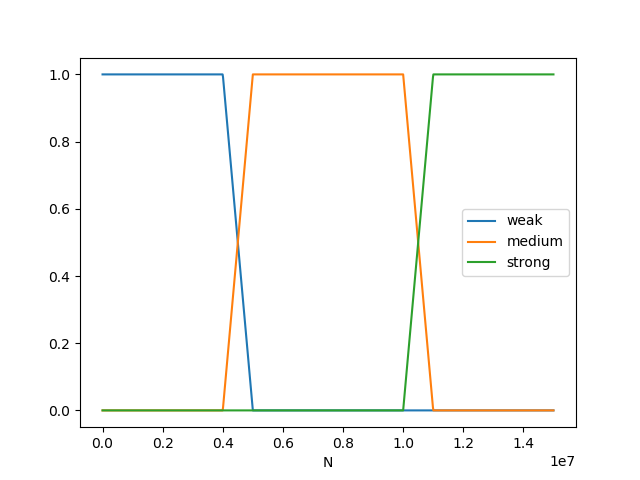
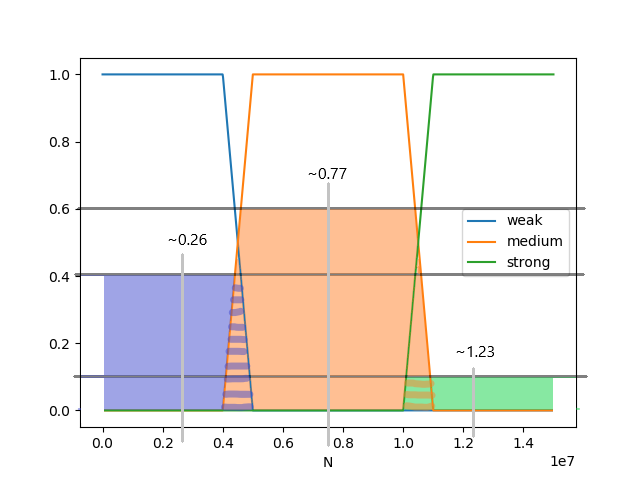
Fuzzy logic DONE

Changed region(s): [[0.125, 0.3438, 0.9062, 0.9375], [0.7188, 0.7188, 0.7812, 0.75]]

diff --git a/3_FuzzyLogic/docs.md b/3_FuzzyLogic/docs.md
@@ -116,9 +116,61 @@ Obliczamy stopnie twardości i grubości:
 * Twardość
   * Miękka: `1-(x-20)/10 = 1-(21-20)/10 = 1-1/10 = 1-0.1 = 0.9`
   * Średnio twarda: `(x-20)/10 = (21-20)/10 = 1/10 = 0.1`
+  * Twarda: 0
   
 * Grubość
+  * Cienka: 0
   * Średnio gruba: `1-(x-10)/10 = 1-(16-10)/10 = 1-6/10 = 1-0.6 = 0.4`
   * Gruba: `(x-10)/10 = (16-10)/10 = 6/10 = 0.6`
 
+Tworzymy macierz wartości siły:
 
+| Twardość \ Grubość | 0 | 0.4 | 0.6 |
+|---|---|---|---|
+| 0.9 | 0 | 0.4 | 0.6 |
+| 0.1 | 0 | 0.1 | 0.1 |
+| 0 | 0 | 0 | 0 |
+
+I nakładamy ją na macierz określeń siły:
+
+| Twardość \ Grubość | C | S | G |
+|---|---|---|---|
+| M | S | S | U |
+| S | S | U | M |
+| T | S | U | M |
+
+Co daje nam następujące wartości:
+
+* `S = max(0, 0, 0, 0.4) = 0.4`
+* `U = max(0, 0.1, 0.6) = 0.6`
+* `M = max(0, 0.1) = 0.1`
+
+Które dają następujący graf wyostrzania:
+
+![](img/force-calculated.png)
+
+Do wyostrzenia i wyprowadzenia ostatecznej wartości siły nacisku, zastosujemy
+wzór
+
+```
+F = (C1 * P1 + C2 * P2 + C3 * P3) / (P1 + P2 + P3)
+```
+
+* C1 = ~0.26
+* C2 = ~0.77
+* C3 = ~1.23
+
+* `P1 = 0.5 * (0.46 + 0.5) * 0.4 = 0.5 * 0.96 * 0.4 = 0.192`
+* `P2 = 0.5 * (0.58 + 0.7) * 0.6 = 0.5 * 1.28 * 0.6 = 0.384`
+* `P3 = 0.5 * (0.49 + 0.5) * 0.1 = 0.5 * 0.99 * 0.1 = 0.0495`
+
+Ostatecznie,
+
+```
+F = (0.26 * 0.192 + 0.77 * 0.384 + 1.23 * 0.0495) / (0.192 + 0.384 + 0.0495)
+F = (0,04992 + 0,29568 + 0,060885) / 0,6255
+F = 0,406485 / 0.6255
+F = 0,6498561151079137
+```
+
+Tak więc niezbędna siła musiałaby wynosić ~0.65e6 N (~650 kN)
